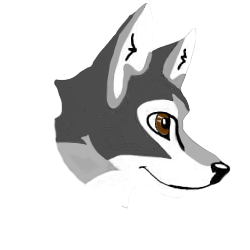
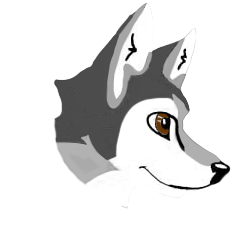
Fix face and add bandana

Changed region(s): [[0.448, 0.392, 0.7, 0.644]]

diff --git a/styles/dog.scss b/styles/dog.scss
@@ -1,8 +1,8 @@
 @import 'animations-dog.scss';
 
 html {
-  --dogHead:url(https://res.cloudinary.com/dloxgdltu/image/upload/v1628947288/animation/character/dog/head_vzwydk.png);
-  --dogNeck:url(https://res.cloudinary.com/dloxgdltu/image/upload/v1628947288/animation/character/dog/neck_ehhcmq.png);
+  --dogHead:url(https://res.cloudinary.com/dloxgdltu/image/upload/v1629005986/animation/character/dog/head_niuf5w.png);
+  --dogNeck:url(/assets/dog/neck.png);
   --dogBodyFront:url(https://res.cloudinary.com/dloxgdltu/image/upload/v1628947288/animation/character/dog/body-front_tcrcbs.png);
   --dogBodyRear:url(https://res.cloudinary.com/dloxgdltu/image/upload/v1628947289/animation/character/dog/body-rear_oygemw.png);
   --dogShoulderFront:url(https://res.cloudinary.com/dloxgdltu/image/upload/v1628947288/animation/character/dog/shoulder-front_gcf7pi.png);
@@ -178,6 +178,19 @@ html {
         z-index:1;
         transform-origin:bottom center;
 
+        &:before {
+          content: '';
+          background-image:url(https://res.cloudinary.com/dloxgdltu/image/upload/v1629007377/animation/character/dog/bandana_i9yqps.png);
+          background-size:100% 100%;
+          position:absolute;
+          top:50%;
+          left:50%;
+          transform:translate(-50%, -50%);
+          height:200%;
+          width:200%;
+          z-index:5;
+        }
+
         &:after {
           content: '';
           background-image:var(--dogNeck);
@@ -188,6 +201,7 @@ html {
           transform:translate(-50%, -50%);
           height:200%;
           width:200%;
+          z-index:-1;
         }
 
         .head {
@@ -228,12 +242,7 @@ html {
           transform:translate(-50%, -50%);
           height:200%;
           width:200%;
-        }
-
-        .upper {
-        }
-
-        .lower {
+          z-index:3;
         }
       }
     }
